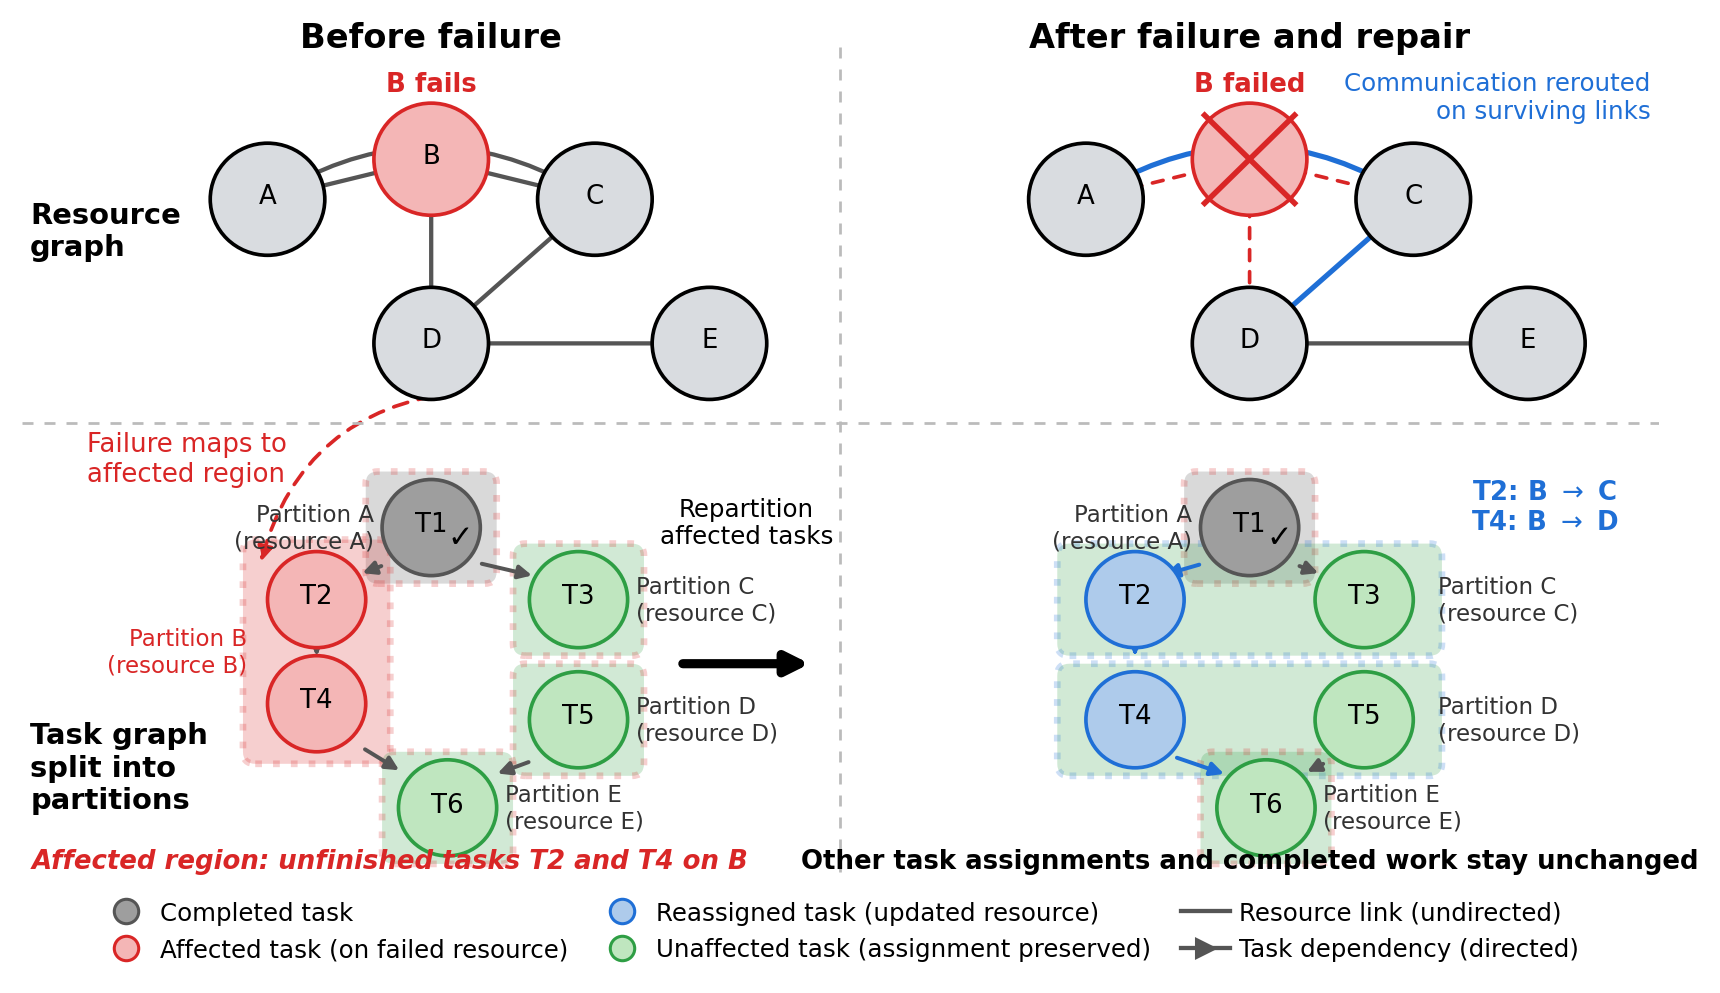
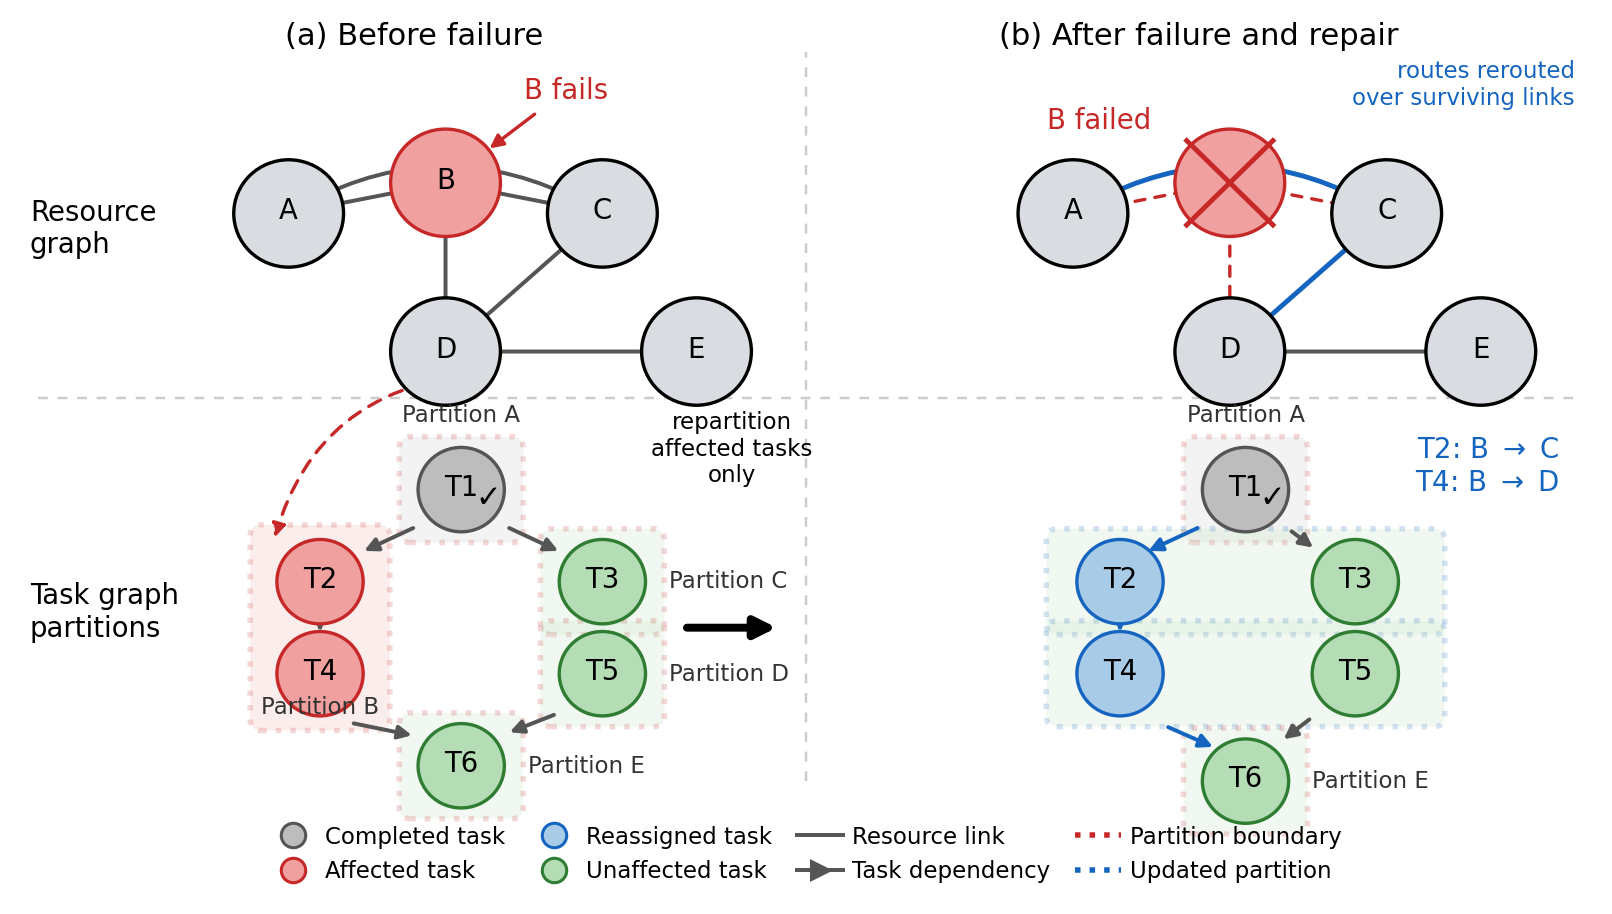
Double-blind anonymization, updated author list, and redrawn overview figure
- Add \ifblind toggle: blind mode shows 'Anonymous submission' and
  anonymized artifact note; camera-ready restores authors and repo link.
- Remove Mohsen Amini Salehi from the author block.
- Rephrase prior-work sentence in third person for double-blind.
- Regenerate fig0 overview in uniform publication style: consistent
  fonts, no embedded title, red dotted initial partitions and blue
  dotted updated partitions after repair.

Changed region(s): [[0.0, 0.0, 0.9926, 0.9803], [0.8375, 0.4595, 0.9615, 0.5514]]

diff --git a/python/make_overview_fig.py b/python/make_overview_fig.py
@@ -1,37 +1,35 @@
-"""Recreate the partial-repartitioning overview figure with uniform fonts."""
+"""Publication-style overview figure: failure + partial repartitioning."""
 import matplotlib
 matplotlib.use("Agg")
 import matplotlib.pyplot as plt
 from matplotlib.patches import Circle, FancyArrowPatch, FancyBboxPatch
 from matplotlib.lines import Line2D
 
-FS = 8.5          # uniform body font size
-FS_T = 11         # panel titles
-FS_L = 9.5        # row labels
+FS = 9
+FS_T = 10
 
-C_DONE = "#9e9e9e"      # completed task
-C_AFF = "#f4b6b6"       # affected task (red-ish)
-C_NEW = "#aecbeb"       # reassigned task (blue-ish)
-C_OK = "#bfe6bf"        # unaffected task (green-ish)
-RED = "#d92626"
-BLUE = "#1f6fd6"
-GREEN = "#2e9e44"
+C_DONE = "#bdbdbd"
+C_AFF = "#f1a0a0"
+C_NEW = "#a8cbe8"
+C_OK = "#b5ddb5"
+RED = "#c62828"
+BLUE = "#1565c0"
+GREEN = "#2e7d32"
 GREY = "#555555"
 
 
-def node(ax, x, y, label, r=6, fc="#d9dce0", ec="black", fs=FS,
-         check=False):
+def node(ax, x, y, label, r=5.5, fc="#d9dce0", ec="black", check=False):
     ax.add_patch(Circle((x, y), r, facecolor=fc, edgecolor=ec,
-                        linewidth=1.2, zorder=3))
-    ax.text(x, y + 0.4, label, ha="center", va="center", fontsize=fs,
+                        linewidth=1.1, zorder=3))
+    ax.text(x, y + 0.3, label, ha="center", va="center", fontsize=FS,
             zorder=4)
     if check:
-        ax.text(x + 3.6, y - 1.2, "\u2713", ha="center", va="center",
-                fontsize=fs + 1.5, zorder=4)
+        ax.text(x + 3.4, y - 1.1, "\u2713", ha="center", va="center",
+                fontsize=FS + 1, zorder=4)
 
 
 def link(ax, p0, p1, color=GREY, lw=1.3, ls="-", rad=0.0, arrow=False,
-         sh=8):
+         sh=7.5):
     ax.add_patch(FancyArrowPatch(p0, p1, connectionstyle=f"arc3,rad={rad}",
                  arrowstyle="-|>" if arrow else "-", mutation_scale=9,
                  color=color, lw=lw, linestyle=ls, zorder=2,
@@ -40,158 +38,148 @@ def link(ax, p0, p1, color=GREY, lw=1.3, ls="-", rad=0.0, arrow=False,
 
 def part_box(ax, x, y, w, h, color, edge=RED):
     ax.add_patch(FancyBboxPatch((x - w / 2, y - h / 2), w, h,
-                 boxstyle="round,pad=1.5", facecolor=color, alpha=0.22,
-                 edgecolor=edge, linewidth=2.2,
+                 boxstyle="round,pad=1.4", facecolor=color, alpha=0.18,
+                 edgecolor=edge, linewidth=1.8,
                  linestyle=":", zorder=1))
 
 
-def plabel(ax, x_edge, y, text, side, color="#333333"):
-    ax.text(x_edge, y, text, ha="left" if side == "r" else "right",
-            va="center", fontsize=FS - 1, color=color, zorder=5)
-
-
-fig, ax = plt.subplots(figsize=(9.6, 5.2))
+fig, ax = plt.subplots(figsize=(9.2, 4.8))
 ax.set_xlim(0, 200)
-ax.set_ylim(0, 110)
+ax.set_ylim(0, 106)
 ax.axis("off")
 
-ax.plot([100, 100], [4, 108], color="#bbbbbb", lw=0.9, ls=(0, (4, 4)))
-ax.plot([0, 200], [60, 60], color="#bbbbbb", lw=0.9, ls=(0, (4, 4)))
+# dividers
+ax.plot([100, 100], [8, 103], color="#cccccc", lw=0.8, ls=(0, (4, 4)))
+ax.plot([2, 198], [58, 58], color="#cccccc", lw=0.8, ls=(0, (4, 4)))
 
-ax.text(50, 107, "Before failure", ha="center", fontsize=FS_T,
-        fontweight="bold")
-ax.text(150, 107, "After failure and repair", ha="center", fontsize=FS_T,
-        fontweight="bold")
-ax.text(1, 84, "Resource\ngraph", ha="left", va="center", fontsize=FS_L,
-        fontweight="bold")
-ax.text(1, 17, "Task graph\nsplit into\npartitions", ha="left", va="center",
-        fontsize=FS_L, fontweight="bold")
+ax.text(50, 104, "(a) Before failure", ha="center", fontsize=FS_T)
+ax.text(150, 104, "(b) After failure and repair", ha="center",
+        fontsize=FS_T)
+ax.text(1, 80, "Resource\ngraph", ha="left", va="center", fontsize=FS)
+ax.text(1, 30, "Task graph\npartitions", ha="left", va="center",
+        fontsize=FS)
 
-# ---------------- left: resource graph ----------------
-res = {"A": (30, 88), "B": (50, 93), "C": (70, 88), "D": (50, 70),
-       "E": (84, 70)}
-for u, v, rad in [("A", "B", 0), ("B", "C", 0), ("A", "C", -0.32),
+# ---------------- resource graph (left) ----------------
+res = {"A": (34, 82), "B": (54, 86), "C": (74, 82), "D": (54, 64),
+       "E": (86, 64)}
+for u, v, rad in [("A", "B", 0), ("B", "C", 0), ("A", "C", -0.3),
                   ("B", "D", 0), ("C", "D", 0), ("D", "E", 0)]:
-    link(ax, res[u], res[v], rad=rad, lw=1.4)
+    link(ax, res[u], res[v], rad=rad)
 for k in ("A", "C", "D", "E"):
     node(ax, *res[k], k, r=7)
 node(ax, *res["B"], "B", r=7, fc=C_AFF, ec=RED)
-ax.text(50, 101.5, "B fails", color=RED, fontsize=FS, fontweight="bold",
-        ha="center")
+ax.annotate("B fails", xy=(59, 90), xytext=(64, 97),
+            color=RED, fontsize=FS, ha="left",
+            arrowprops=dict(arrowstyle="-|>", color=RED, lw=1.1))
 
-# ---------------- right: resource graph ----------------
+# ---------------- resource graph (right) ----------------
 res2 = {k: (x + 100, y) for k, (x, y) in res.items()}
 for u, v in [("A", "B"), ("B", "C"), ("B", "D")]:
-    link(ax, res2[u], res2[v], lw=1.2, color=RED, ls=(0, (3, 3)))
-link(ax, res2["D"], res2["E"], lw=1.4)
-link(ax, res2["A"], res2["C"], rad=-0.32, lw=1.7, color=BLUE, arrow=True)
-link(ax, res2["C"], res2["D"], lw=1.7, color=BLUE, arrow=True)
+    link(ax, res2[u], res2[v], lw=1.1, color=RED, ls=(0, (3, 3)))
+link(ax, res2["D"], res2["E"])
+link(ax, res2["A"], res2["C"], rad=-0.3, lw=1.6, color=BLUE, arrow=True)
+link(ax, res2["C"], res2["D"], lw=1.6, color=BLUE, arrow=True)
 for k in ("A", "C", "D", "E"):
     node(ax, *res2[k], k, r=7)
 ax.add_patch(Circle(res2["B"], 7, facecolor=C_AFF, edgecolor=RED,
-                    lw=1.2, zorder=3))
+                    lw=1.1, zorder=3))
 bx, by = res2["B"]
-ax.plot([bx - 5.5, bx + 5.5], [by - 5.5, by + 5.5], color=RED, lw=1.8,
+ax.plot([bx - 5.5, bx + 5.5], [by - 5.5, by + 5.5], color=RED, lw=1.6,
         zorder=4)
-ax.plot([bx - 5.5, bx + 5.5], [by + 5.5, by - 5.5], color=RED, lw=1.8,
+ax.plot([bx - 5.5, bx + 5.5], [by + 5.5, by - 5.5], color=RED, lw=1.6,
         zorder=4)
-ax.text(bx, 101.5, "B failed", color=RED, fontsize=FS, fontweight="bold",
-        ha="center")
-ax.text(199, 104, "Communication rerouted\non surviving links", color=BLUE,
-        fontsize=FS - 0.5, ha="right", va="top")
+ax.text(144, 93, "B failed", color=RED, fontsize=FS, ha="right")
+ax.text(198, 102, "routes rerouted\nover surviving links", color=BLUE,
+        fontsize=FS - 1.5, ha="right", va="top")
 
-# ---------------- left: task DAG ----------------
-node(ax, 50, 47, "T1", fc=C_DONE, ec=GREY, check=True)
-part_box(ax, 50, 47, 13, 11, GREY)
-plabel(ax, 43, 47, "Partition A\n(resource A)", "l")
+# ---------------- task graph (left) ----------------
+node(ax, 56, 46, "T1", fc=C_DONE, ec=GREY, check=True)
+part_box(ax, 56, 46, 13, 11, C_DONE)
+ax.text(56, 54.8, "Partition A", ha="center", fontsize=FS - 1.5,
+        color="#333333")
 
-node(ax, 36, 38, "T2", fc=C_AFF, ec=RED)
-node(ax, 36, 25, "T4", fc=C_AFF, ec=RED)
-part_box(ax, 36, 31.5, 15, 25, RED)
-plabel(ax, 27.5, 31.5, "Partition B\n(resource B)", "l", color=RED)
+node(ax, 38, 34, "T2", fc=C_AFF, ec=RED)
+node(ax, 38, 22, "T4", fc=C_AFF, ec=RED)
+part_box(ax, 38, 28, 15, 24, C_AFF)
+ax.text(38, 16.8, "Partition B", ha="center", fontsize=FS - 1.5,
+        color="#333333")
 
-node(ax, 68, 38, "T3", fc=C_OK, ec=GREEN)
-part_box(ax, 68, 38, 13, 11, GREEN)
-plabel(ax, 75, 38, "Partition C\n(resource C)", "r")
-node(ax, 68, 23, "T5", fc=C_OK, ec=GREEN)
-part_box(ax, 68, 23, 13, 11, GREEN)
-plabel(ax, 75, 23, "Partition D\n(resource D)", "r")
-node(ax, 52, 12, "T6", fc=C_OK, ec=GREEN)
-part_box(ax, 52, 12, 13, 11, GREEN)
-plabel(ax, 59, 12, "Partition E\n(resource E)", "r")
+node(ax, 74, 34, "T3", fc=C_OK, ec=GREEN)
+part_box(ax, 74, 34, 13, 11, C_OK)
+ax.text(82.5, 34, "Partition C", ha="left", va="center",
+        fontsize=FS - 1.5, color="#333333")
+node(ax, 74, 22, "T5", fc=C_OK, ec=GREEN)
+part_box(ax, 74, 22, 13, 11, C_OK)
+ax.text(82.5, 22, "Partition D", ha="left", va="center",
+        fontsize=FS - 1.5, color="#333333")
+node(ax, 56, 10, "T6", fc=C_OK, ec=GREEN)
+part_box(ax, 56, 10, 13, 11, C_OK)
+ax.text(64.5, 10, "Partition E", ha="left", va="center",
+        fontsize=FS - 1.5, color="#333333")
 
-link(ax, (46, 43), (39.5, 40.5), arrow=True, sh=6)
-link(ax, (54, 43), (64.5, 40.5), arrow=True, sh=6)
-link(ax, (36, 32), (36, 31), arrow=True, sh=6)
-link(ax, (40, 20.5), (48, 15.5), arrow=True, sh=6)
-link(ax, (64, 18.5), (56, 15.5), arrow=True, sh=6)
+link(ax, (52, 42), (41.5, 37), arrow=True, sh=6)
+link(ax, (60, 42), (70.5, 37), arrow=True, sh=6)
+link(ax, (38, 28.5), (38, 27.5), arrow=True, sh=6)
+link(ax, (40, 16), (52, 13.5), arrow=True, sh=6)
+link(ax, (70, 17.5), (60, 13.5), arrow=True, sh=6)
 
-ax.add_patch(FancyArrowPatch((54, 64), (29, 42),
+ax.add_patch(FancyArrowPatch((58, 61), (32, 39),
              connectionstyle="arc3,rad=0.35", arrowstyle="-|>",
-             mutation_scale=10, color=RED, lw=1.2,
+             mutation_scale=9, color=RED, lw=1.1,
              linestyle=(0, (4, 3))))
-ax.text(8, 55.5, "Failure maps to\naffected region", color=RED,
-        fontsize=FS, ha="left", va="center")
-ax.text(45, 4.5, "Affected region: unfinished tasks T2 and T4 on B",
-        color=RED, fontsize=FS, style="italic", ha="center",
-        fontweight="bold")
 
-ax.add_patch(FancyArrowPatch((80, 30), (97, 30), arrowstyle="-|>",
-             mutation_scale=15, color="black", lw=3))
-ax.text(88.5, 45, "Repartition\naffected tasks", ha="center",
-        fontsize=FS - 0.5)
+ax.add_patch(FancyArrowPatch((84, 28), (97, 28), arrowstyle="-|>",
+             mutation_scale=14, color="black", lw=2.6))
+ax.text(90.5, 47, "repartition\naffected tasks\nonly", ha="center",
+        fontsize=FS - 1.5)
 
-# ---------------- right: task DAG ----------------
-node(ax, 150, 47, "T1", fc=C_DONE, ec=GREY, check=True)
-part_box(ax, 150, 47, 13, 11, GREY)
-plabel(ax, 143, 47, "Partition A\n(resource A)", "l")
+# ---------------- task graph (right) ----------------
+node(ax, 156, 46, "T1", fc=C_DONE, ec=GREY, check=True)
+part_box(ax, 156, 46, 13, 11, C_DONE)
+ax.text(156, 54.8, "Partition A", ha="center", fontsize=FS - 1.5,
+        color="#333333")
 
-# T2 joins Partition C (with T3), T4 joins Partition D (with T5):
-# partitions unchanged, only task assignment changed
-part_box(ax, 150, 38, 44, 11, GREEN, edge=BLUE)
-node(ax, 136, 38, "T2", fc=C_NEW, ec=BLUE)
-node(ax, 164, 38, "T3", fc=C_OK, ec=GREEN)
-plabel(ax, 173, 38, "Partition C\n(resource C)", "r")
-part_box(ax, 150, 23, 44, 11, GREEN, edge=BLUE)
-node(ax, 136, 23, "T4", fc=C_NEW, ec=BLUE)
-node(ax, 164, 23, "T5", fc=C_OK, ec=GREEN)
-plabel(ax, 173, 23, "Partition D\n(resource D)", "r")
-node(ax, 152, 12, "T6", fc=C_OK, ec=GREEN)
-part_box(ax, 152, 12, 13, 11, GREEN)
-plabel(ax, 159, 12, "Partition E\n(resource E)", "r")
+part_box(ax, 156, 34, 48, 11, C_OK, edge=BLUE)
+node(ax, 140, 34, "T2", fc=C_NEW, ec=BLUE)
+node(ax, 170, 34, "T3", fc=C_OK, ec=GREEN)
+part_box(ax, 156, 22, 48, 11, C_OK, edge=BLUE)
+node(ax, 140, 22, "T4", fc=C_NEW, ec=BLUE)
+node(ax, 170, 22, "T5", fc=C_OK, ec=GREEN)
+node(ax, 156, 8, "T6", fc=C_OK, ec=GREEN)
+part_box(ax, 156, 8, 13, 11, C_OK)
+ax.text(164.5, 8, "Partition E", ha="left", va="center",
+        fontsize=FS - 1.5, color="#333333")
 
-link(ax, (146, 43), (137.5, 40.5), color=BLUE, arrow=True, sh=6)
-link(ax, (154, 43), (160.5, 40.5), arrow=True, sh=6)
-link(ax, (136, 32), (136, 31), color=BLUE, arrow=True, sh=6)
-link(ax, (139, 19), (149, 15.5), color=BLUE, arrow=True, sh=6)
-link(ax, (161, 18.5), (155, 15.5), arrow=True, sh=6)
+link(ax, (152, 42), (141.5, 37), color=BLUE, arrow=True, sh=6)
+link(ax, (160, 42), (166.5, 37), arrow=True, sh=6)
+link(ax, (140, 28.5), (140, 27.5), color=BLUE, arrow=True, sh=6)
+link(ax, (144, 16), (154, 11.5), color=BLUE, arrow=True, sh=6)
+link(ax, (166, 17.5), (159, 12), arrow=True, sh=6)
 
-ax.text(186, 53, "T2: B $\\rightarrow$ C\nT4: B $\\rightarrow$ D",
-        color=BLUE, fontsize=FS, ha="center", va="top", fontweight="bold")
-ax.text(150, 4.5, "Other task assignments and completed work stay "
-        "unchanged", fontsize=FS, ha="center", fontweight="bold")
+ax.text(196, 53, "T2: B $\\rightarrow$ C\nT4: B $\\rightarrow$ D",
+        color=BLUE, fontsize=FS, ha="right", va="top")
 
 # ---------------- legend ----------------
 handles = [
     Line2D([0], [0], marker="o", color="none", markerfacecolor=C_DONE,
            markeredgecolor=GREY, markersize=8, label="Completed task"),
     Line2D([0], [0], marker="o", color="none", markerfacecolor=C_AFF,
-           markeredgecolor=RED, markersize=8,
-           label="Affected task (on failed resource)"),
+           markeredgecolor=RED, markersize=8, label="Affected task"),
     Line2D([0], [0], marker="o", color="none", markerfacecolor=C_NEW,
-           markeredgecolor=BLUE, markersize=8,
-           label="Reassigned task (updated resource)"),
+           markeredgecolor=BLUE, markersize=8, label="Reassigned task"),
     Line2D([0], [0], marker="o", color="none", markerfacecolor=C_OK,
-           markeredgecolor=GREEN, markersize=8,
-           label="Unaffected task (assignment preserved)"),
-    Line2D([0], [0], color=GREY, lw=1.4,
-           label="Resource link (undirected)"),
-    Line2D([0], [0], color=GREY, lw=1.4, marker=">", markersize=6,
-           label="Task dependency (directed)"),
+           markeredgecolor=GREEN, markersize=8, label="Unaffected task"),
+    Line2D([0], [0], color=GREY, lw=1.3, label="Resource link"),
+    Line2D([0], [0], color=GREY, lw=1.3, marker=">", markersize=6,
+           label="Task dependency"),
+    Line2D([0], [0], color=RED, lw=1.8, linestyle=":",
+           label="Partition boundary"),
+    Line2D([0], [0], color=BLUE, lw=1.8, linestyle=":",
+           label="Updated partition"),
 ]
-ax.legend(handles=handles, loc="lower center", bbox_to_anchor=(0.5, -0.09),
-          ncol=3, fontsize=FS - 0.5, frameon=False,
-          columnspacing=1.2, handletextpad=0.4)
+ax.legend(handles=handles, loc="lower center",
+          bbox_to_anchor=(0.5, -0.075), ncol=4, fontsize=FS - 1.5,
+          frameon=False, columnspacing=1.1, handletextpad=0.4)
 
 fig.savefig("figures/fig0_overview.png", dpi=220,
             bbox_inches="tight", facecolor="white")

diff --git a/paper/main.tex b/paper/main.tex
@@ -18,6 +18,18 @@
 \theoremstyle{remark}
 \newtheorem{remark}{Remark}
 
+% Toggle: \blindtrue for double-blind submission, \blindfalse for camera-ready.
+\newif\ifblind
+\blindtrue
+
+\ifblind
+\title{Dynamic Partial Repartitioning of DAG Workflows After Resource
+Failures in Federated Fog Environments%
+\thanks{Artifact: the simulator, scenario generators, recovery-instance
+exporter, MILP solver, evaluation scripts, and raw results will be made
+publicly available upon publication.}}
+\author{Anonymous submission}
+\else
 \title{Dynamic Partial Repartitioning of DAG Workflows After Resource Failures
 in Federated Fog Environments%
 \thanks{Artifact: the simulator, scenario generators, recovery-instance
@@ -27,17 +39,17 @@ available at \url{https://github.com/gayanigupta/dynamic-scheduling}.}}
 \author{
 \IEEEauthorblockN{Gayani Gupta\IEEEauthorrefmark{1},
 Amisha Gupta\IEEEauthorrefmark{2},
-Mohsen Amini Salehi\IEEEauthorrefmark{1},\\
 Sanjukta Bhowmick\IEEEauthorrefmark{1} and
 Antonio Fern\'andez Anta\IEEEauthorrefmark{3}}
 \IEEEauthorblockA{\IEEEauthorrefmark{1}Dept.\ of Computer Science and
 Engineering, University of North Texas, USA \\
-\{gayani.gupta, mohsen.aminisalehi, sanjukta.bhowmick\}@unt.edu}
+\{gayani.gupta, sanjukta.bhowmick\}@unt.edu}
 \IEEEauthorblockA{\IEEEauthorrefmark{2}University of California,
 Berkeley, USA}
 \IEEEauthorblockA{\IEEEauthorrefmark{3}IMDEA Networks Institute,
 Madrid, Spain \\ antonio.fernandez@imdea.org}
 }
+\fi
 
 \begin{document}
 \maketitle
@@ -161,7 +173,7 @@ combines dependency-closed failure-region extraction with
 Steiner-bounded replacement selection and incremental route repair for
 workflow recovery---the gap this paper addresses.
 
-Our prior work schedules DAG workflows across federated fog systems:
+Gupta et al.\ schedule DAG workflows across federated fog systems:
 \cite{gupta2025efficient} optimizes the initial task allocation, and
 \cite{gupta2025dataaware} jointly models data placement and approximate
 execution. Both assume resources stay available; this paper instead targets
